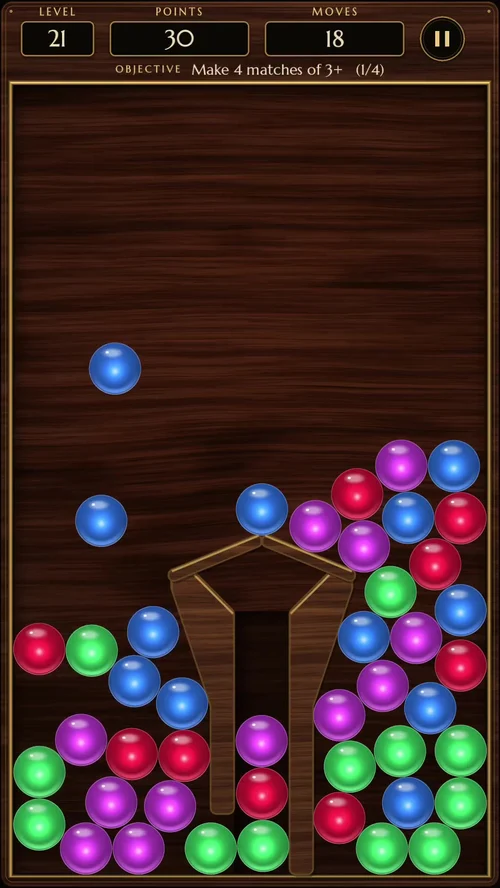
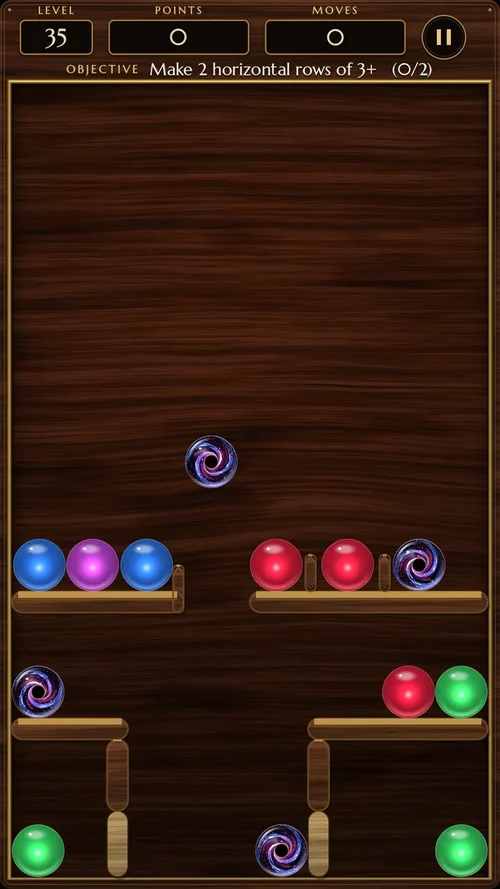
Homepage: replace the removed level 21 screenshot with level 35
Claude-Session: https://claude.ai/code/session_01Je6KFTDgnWY7eMugiGqykd

diff --git a/index.html b/index.html
@@ -720,7 +720,7 @@
           <source src="assets/rollabop/rollabop-gameplay.mp4" type="video/mp4">
         </video>
              and change the caption to: Real gameplay, recorded on a Galaxy Fold 7 -->
-        <img src="assets/rollabop/rollabop-gameplay-screenshot.webp" alt="Real Rollabop gameplay screenshot: level 21, colourful glass balls piled in the walnut tray around a wooden divider" width="500" height="888">
+        <img src="assets/rollabop/rollabop-gameplay-screenshot.webp" alt="Real Rollabop gameplay screenshot: level 35, glass balls and Galaxy balls resting on wooden shelves in the walnut tray" width="500" height="889">
       </div>
       <p class="rb-caption">Real gameplay screenshot from Rollabop</p>
     </div>
